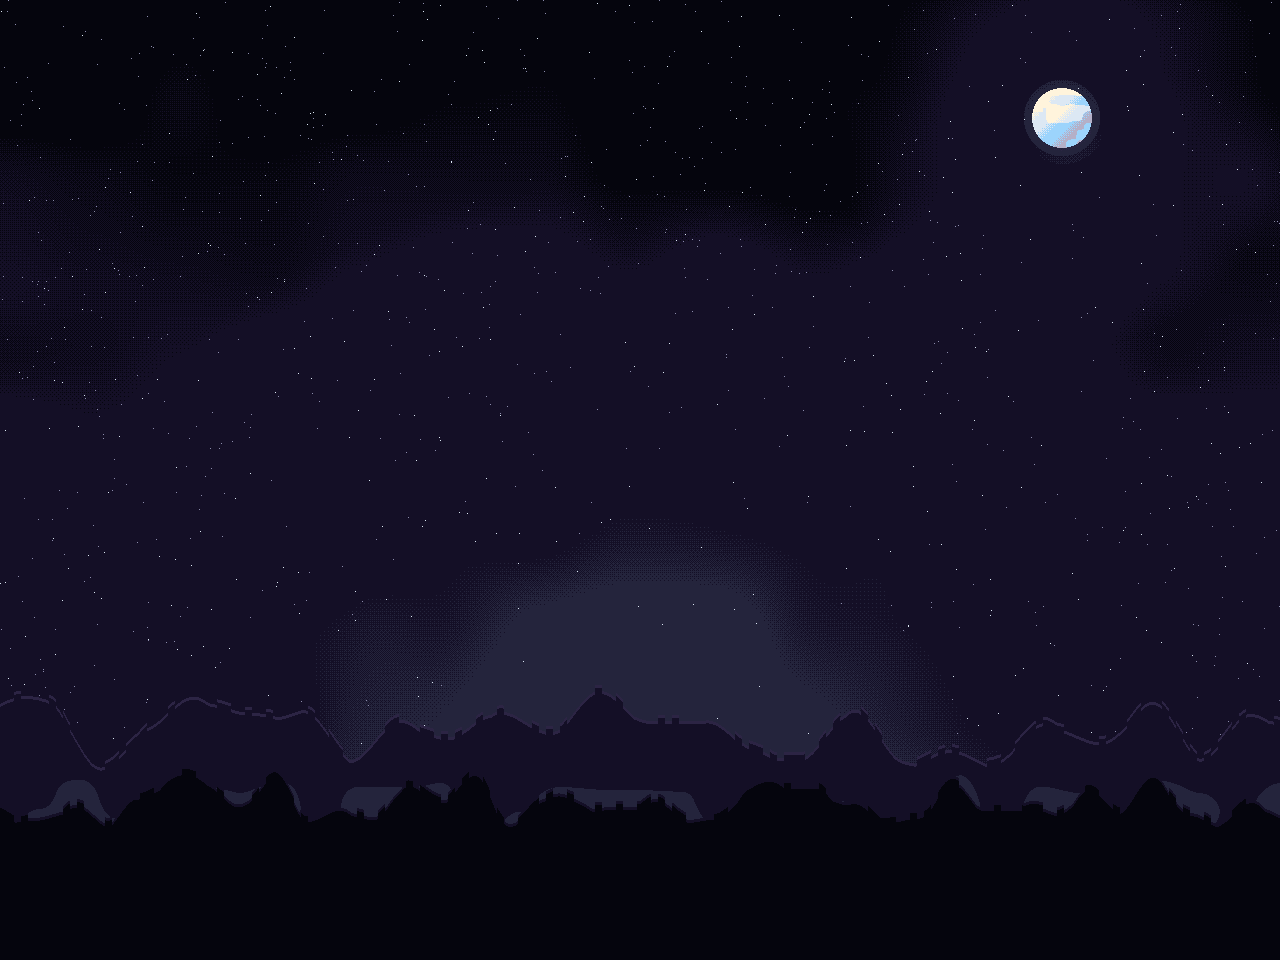
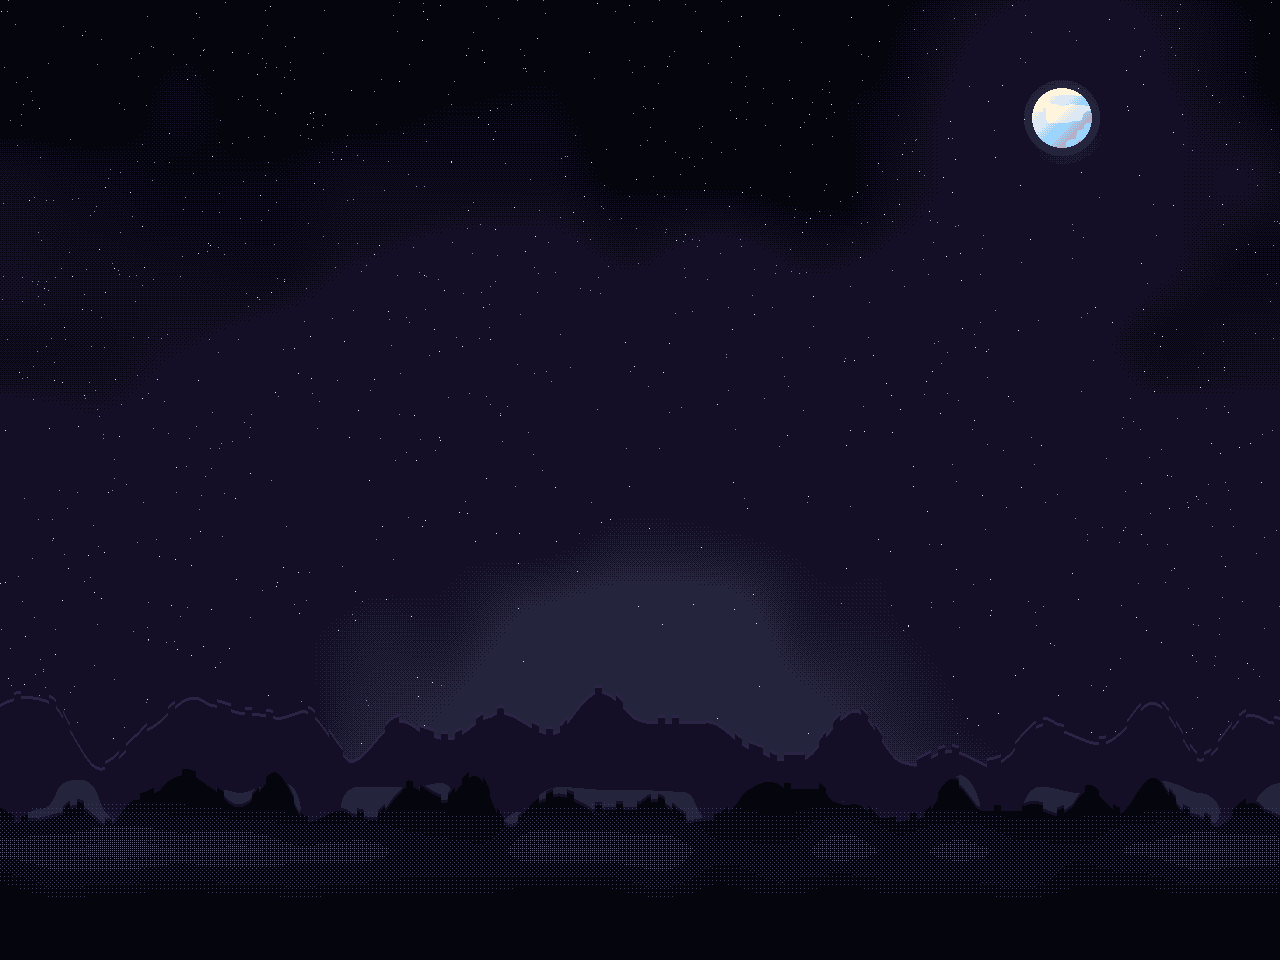
Memory Grove: match the map and title mood (darker canopy, gold crown rim, roots in a mossy mound, swamp mist)
The canopy sits a step darker, with a warm gold rim only on its outer upper-left edge; the long sprawling roots become short flares sinking into a dark mossy mound; opaque dithered swamp mist lies around the roots and between the far trees (opaque, since blended mist snapped to muddy colours). Matches the revised map Heartwood preview.

Changed region(s): [[0.0, 0.8438, 1.0, 0.9062]]

diff --git a/Project_T/tools/meta_art/grove_gen.html b/Project_T/tools/meta_art/grove_gen.html
@@ -600,8 +600,8 @@ function thickPath(L, pts, w0, w1, fn) {
 // ---- the base tree: roots, trunk, three limbs, always visible ----
 function groveTree() {
   const out = new Img(GW, GH), L = new Img(GW, GH), M = new Img(GW, GH);
-  // Earth mound with moss.
-  ellipse(out, 640, 952, 560, 90, (x, y, dx, dy) => pick(["#0c0806", "#140e0a", "#1c140e"], clamp(.6 - dy * .5 + (pnoise(x, y, 9, 3) - .5) * .4, 0, 1), x, y));
+  // A low mossy mound (lit on its upper left) the roots sink into, as on the map Heartwood.
+  ellipse(out, 640, 952, 560, 90, (x, y, dx, dy) => pick([HW.Void, HW.Void, HW.Deepmoss, HW.Moss], clamp(.3 - dy * .45 + (pnoise(x, y, 9, 3) - .5) * .4, 0, 1), x, y));
   for (let k = 0; k < 900; k++) {
     const x = 120 + hash(k, 1, 4) * 1040, y = 880 + hash(k, 2, 4) * 80;
     if (hash(k, 3, 4) < .6) { out.set(x, y, LEAFG[1]); out.set(x, y - 1, LEAFG[2]); if (hash(k, 4, 4) < .4) out.set(x + 1, y - 2, LEAFG[3]); }
@@ -613,10 +613,10 @@ function groveTree() {
     const ridge = Math.abs(((pnoise(x * 3, y, 12, seed) * 7) % 1) - .5) < .1;
     return pick(HB6.slice(1), clamp(.58 - nx * .45 + (ridge ? -.28 : 0) + (pnoise(x, y, 6, seed + 1) - .5) * .12, 0, 1), x, y, .5);
   };
-  const roots = [[[596, 870], [520, 884], [446, 912], [372, 944], [330, 952]], [[684, 870], [760, 884], [834, 912], [908, 944], [950, 952]],
-    [[612, 890], [578, 924], [556, 960]], [[668, 890], [702, 924], [724, 960]], [[590, 856], [512, 852], [440, 868], [388, 890]],
-    [[690, 856], [768, 852], [840, 868], [892, 890]], [[640, 900], [646, 962]]];
-  roots.forEach((r, i) => thickPath(L, catmull(r, 12), [46, 46, 34, 34, 28, 28, 30][i], 8, rootFn(20 + i)));
+  // Short thick flares that bend down into the mound (their ends are hidden under its front lip).
+  const roots = [[[598, 866], [548, 884], [508, 906], [488, 928]], [[682, 866], [732, 884], [772, 906], [792, 928]],
+    [[612, 888], [590, 918], [582, 940]], [[668, 888], [690, 918], [698, 940]], [[640, 898], [642, 944]]];
+  roots.forEach((r, i) => thickPath(L, catmull(r, 12), [48, 48, 36, 36, 30][i], 18, rootFn(20 + i)));
   // Twisted strands: each sample's segments are drawn back to front (by where they are in the
   // twist), and each strand's edge is darkened so the strands read apart.
   // Each strand is a shaded cylinder: dark edges, a lit band toward the key light (top left), and
@@ -683,6 +683,15 @@ function groveTree() {
   sigil(600, 640, "perks", [...ring, [0, 0], [0, -1], [0, 1], [-1, 0], [1, 0]]);
   sigil(641, 596, "families", [[0, -6], [0, -5], [0, -4], [0, -3], [0, -2], [0, -1], [0, 0], [0, 1], [0, 2], [0, 3], [-1, -3], [-2, -4], [1, -1], [2, -2], [-1, 1], [-2, 0], [1, 3], [2, 2]]);
   sigil(684, 640, "cards", [[-3, -5], [-2, -5], [-1, -5], [0, -5], [1, -5], [2, -5], [3, -5], [-3, 5], [-2, 5], [-1, 5], [0, 5], [1, 5], [2, 5], [3, 5], [-3, -4], [-3, -3], [-3, -2], [-3, -1], [-3, 0], [-3, 1], [-3, 2], [-3, 3], [-3, 4], [3, -4], [3, -3], [3, -2], [3, -1], [3, 0], [3, 1], [3, 2], [3, 3], [3, 4], [0, -1], [0, 0], [0, 1], [-1, 0], [1, 0]]);
+  // The mound's front lip over the roots' ends, then swamp mist dithered across the ground.
+  for (let x = 300; x < 980; x++) {
+    const top = 920 + Math.round((pnoise(x, 0, 14, 33) - .5) * 8 + ((x - 640) / 60) ** 2);
+    for (let y = top; y < GH; y++) out.set(x, y, y - top < 2 ? HW.Moss : pick([HW.Deepmoss, HW.Deepmoss, HW.Void], (y - top) / 30, x, y, .3));
+  }
+  for (let y = 850; y < GH; y++) for (let x = 0; x < GW; x++) {
+    const d = (1 - Math.abs(y - 915) / 65) * (1 - Math.abs(x - 640) / 700) * (.55 + pnoise(x, y, 22, 34) * .7);
+    if (d > .15 && bay(x, y) < d * .32) out.set(x, y, d > .55 ? HW.Mist : d > .35 ? HW.Slate : HW.Dusk);  // opaque dither: blending would snap to muddy colours
+  }
   // Pale glowing mushrooms on the roots.
   for (const [x, y, s] of [[470, 896, 1], [486, 900, .7], [812, 894, 1.1], [828, 899, .8], [560, 928, .8], [742, 930, .9], [372, 930, .7]]) {
     ellipse(out, x, y + 3 * s, 1.6 * s, 3 * s, "#c8c0d8");
@@ -781,6 +790,11 @@ function grovesky() {
     if (pnoise(x, y, 40, 66) > .45 + edge * .6) out.set(x, y, CA("#5a5a8a", .16));
   }
   band(830, 50, 34, 65, "#0a0c16", "#141828");
+  // Swamp mist lying low between the far trees (the title screen's mist).
+  for (let y = 790; y < GH; y++) for (let x = 0; x < GW; x++) {
+    const d = (1 - Math.abs(y - 850) / 60) * (.45 + pnoise(x, y, 60, 67) * .8);
+    if (d > .25 && bay(x, y) < d * .22) out.set(x, y, d > .7 ? HW.Slate : HW.Dusk);
+  }
   return out;
 }
 
@@ -814,7 +828,7 @@ const CROWN = (() => {
       const dx = (x - lx) / r, dy = (y - ly) / (r * .85), q = dx * dx + dy * dy;
       if (q <= 1) t = clamp((-dx * .5 - dy * .8 + Math.sqrt(1 - q) * .45 + .25) / 1.3, 0, 1);  // the front lobe wins
     });
-    return t < 0 ? -1 : t * .95 + .42 - (y * s - 150) / 520 * .62 - (x * s - 560) / 1280 * .1;
+    return t < 0 ? -1 : t * .95 + .24 - (y * s - 150) / 520 * .62 - (x * s - 560) / 1280 * .1;
   };
   // Leaf clusters on a jittered grid: [x, y, r, light, rank] (rank orders the stages, centre first).
   const clusters = [], sp = 22 / s;
@@ -870,7 +884,7 @@ function groveCanopy(stage) {
   }
   const small = new Img(W, H); small.stamp(L, P[0]);
   for (let y = 1; y < H - 1; y++) for (let x = 1; x < W - 1; x++)
-    if (L.alpha(x, y) && !L.alpha(x + 1, y - 1) && L.alpha(x - 1, y + 1)) small.set(x, y, HW.Moss);  // moonlit edge
+    if (L.alpha(x, y) && !L.alpha(x - 1, y - 1) && !L.alpha(x - 3, y - 3) && !L.alpha(x - 6, y - 6) && L.alpha(x + 1, y + 1) && y * s < 420 && hash(x, y, 35) < .8) small.set(x, y, HW.Gold);  // only the outer edge, not every gap  // warm rim where the light catches the upper-left edge
   // Scale up 2× into the tree's space.
   const out = new Img(GW, GH);
   for (let y = 0; y < GH; y++) for (let x = 0; x < GW; x++) { const X = x / s | 0, Y = y / s | 0; if (small.alpha(X, Y)) out.set(x, y, small.get(X, Y)); }

diff --git a/Project_T/tools/meta_art/grove_tree.js b/Project_T/tools/meta_art/grove_tree.js
@@ -141,8 +141,8 @@ function thickPath(L, pts, w0, w1, fn) {
 // ---- the base tree: roots, trunk, three limbs, always visible ----
 function groveTree() {
   const out = new Img(GW, GH), L = new Img(GW, GH), M = new Img(GW, GH);
-  // Earth mound with moss.
-  ellipse(out, 640, 952, 560, 90, (x, y, dx, dy) => pick(["#0c0806", "#140e0a", "#1c140e"], clamp(.6 - dy * .5 + (pnoise(x, y, 9, 3) - .5) * .4, 0, 1), x, y));
+  // A low mossy mound (lit on its upper left) the roots sink into, as on the map Heartwood.
+  ellipse(out, 640, 952, 560, 90, (x, y, dx, dy) => pick([HW.Void, HW.Void, HW.Deepmoss, HW.Moss], clamp(.3 - dy * .45 + (pnoise(x, y, 9, 3) - .5) * .4, 0, 1), x, y));
   for (let k = 0; k < 900; k++) {
     const x = 120 + hash(k, 1, 4) * 1040, y = 880 + hash(k, 2, 4) * 80;
     if (hash(k, 3, 4) < .6) { out.set(x, y, LEAFG[1]); out.set(x, y - 1, LEAFG[2]); if (hash(k, 4, 4) < .4) out.set(x + 1, y - 2, LEAFG[3]); }
@@ -154,10 +154,10 @@ function groveTree() {
     const ridge = Math.abs(((pnoise(x * 3, y, 12, seed) * 7) % 1) - .5) < .1;
     return pick(HB6.slice(1), clamp(.58 - nx * .45 + (ridge ? -.28 : 0) + (pnoise(x, y, 6, seed + 1) - .5) * .12, 0, 1), x, y, .5);
   };
-  const roots = [[[596, 870], [520, 884], [446, 912], [372, 944], [330, 952]], [[684, 870], [760, 884], [834, 912], [908, 944], [950, 952]],
-    [[612, 890], [578, 924], [556, 960]], [[668, 890], [702, 924], [724, 960]], [[590, 856], [512, 852], [440, 868], [388, 890]],
-    [[690, 856], [768, 852], [840, 868], [892, 890]], [[640, 900], [646, 962]]];
-  roots.forEach((r, i) => thickPath(L, catmull(r, 12), [46, 46, 34, 34, 28, 28, 30][i], 8, rootFn(20 + i)));
+  // Short thick flares that bend down into the mound (their ends are hidden under its front lip).
+  const roots = [[[598, 866], [548, 884], [508, 906], [488, 928]], [[682, 866], [732, 884], [772, 906], [792, 928]],
+    [[612, 888], [590, 918], [582, 940]], [[668, 888], [690, 918], [698, 940]], [[640, 898], [642, 944]]];
+  roots.forEach((r, i) => thickPath(L, catmull(r, 12), [48, 48, 36, 36, 30][i], 18, rootFn(20 + i)));
   // Twisted strands: each sample's segments are drawn back to front (by where they are in the
   // twist), and each strand's edge is darkened so the strands read apart.
   // Each strand is a shaded cylinder: dark edges, a lit band toward the key light (top left), and
@@ -224,6 +224,15 @@ function groveTree() {
   sigil(600, 640, "perks", [...ring, [0, 0], [0, -1], [0, 1], [-1, 0], [1, 0]]);
   sigil(641, 596, "families", [[0, -6], [0, -5], [0, -4], [0, -3], [0, -2], [0, -1], [0, 0], [0, 1], [0, 2], [0, 3], [-1, -3], [-2, -4], [1, -1], [2, -2], [-1, 1], [-2, 0], [1, 3], [2, 2]]);
   sigil(684, 640, "cards", [[-3, -5], [-2, -5], [-1, -5], [0, -5], [1, -5], [2, -5], [3, -5], [-3, 5], [-2, 5], [-1, 5], [0, 5], [1, 5], [2, 5], [3, 5], [-3, -4], [-3, -3], [-3, -2], [-3, -1], [-3, 0], [-3, 1], [-3, 2], [-3, 3], [-3, 4], [3, -4], [3, -3], [3, -2], [3, -1], [3, 0], [3, 1], [3, 2], [3, 3], [3, 4], [0, -1], [0, 0], [0, 1], [-1, 0], [1, 0]]);
+  // The mound's front lip over the roots' ends, then swamp mist dithered across the ground.
+  for (let x = 300; x < 980; x++) {
+    const top = 920 + Math.round((pnoise(x, 0, 14, 33) - .5) * 8 + ((x - 640) / 60) ** 2);
+    for (let y = top; y < GH; y++) out.set(x, y, y - top < 2 ? HW.Moss : pick([HW.Deepmoss, HW.Deepmoss, HW.Void], (y - top) / 30, x, y, .3));
+  }
+  for (let y = 850; y < GH; y++) for (let x = 0; x < GW; x++) {
+    const d = (1 - Math.abs(y - 915) / 65) * (1 - Math.abs(x - 640) / 700) * (.55 + pnoise(x, y, 22, 34) * .7);
+    if (d > .15 && bay(x, y) < d * .32) out.set(x, y, d > .55 ? HW.Mist : d > .35 ? HW.Slate : HW.Dusk);  // opaque dither: blending would snap to muddy colours
+  }
   // Pale glowing mushrooms on the roots.
   for (const [x, y, s] of [[470, 896, 1], [486, 900, .7], [812, 894, 1.1], [828, 899, .8], [560, 928, .8], [742, 930, .9], [372, 930, .7]]) {
     ellipse(out, x, y + 3 * s, 1.6 * s, 3 * s, "#c8c0d8");
@@ -322,6 +331,11 @@ function grovesky() {
     if (pnoise(x, y, 40, 66) > .45 + edge * .6) out.set(x, y, CA("#5a5a8a", .16));
   }
   band(830, 50, 34, 65, "#0a0c16", "#141828");
+  // Swamp mist lying low between the far trees (the title screen's mist).
+  for (let y = 790; y < GH; y++) for (let x = 0; x < GW; x++) {
+    const d = (1 - Math.abs(y - 850) / 60) * (.45 + pnoise(x, y, 60, 67) * .8);
+    if (d > .25 && bay(x, y) < d * .22) out.set(x, y, d > .7 ? HW.Slate : HW.Dusk);
+  }
   return out;
 }
 
@@ -355,7 +369,7 @@ const CROWN = (() => {
       const dx = (x - lx) / r, dy = (y - ly) / (r * .85), q = dx * dx + dy * dy;
       if (q <= 1) t = clamp((-dx * .5 - dy * .8 + Math.sqrt(1 - q) * .45 + .25) / 1.3, 0, 1);  // the front lobe wins
     });
-    return t < 0 ? -1 : t * .95 + .42 - (y * s - 150) / 520 * .62 - (x * s - 560) / 1280 * .1;
+    return t < 0 ? -1 : t * .95 + .24 - (y * s - 150) / 520 * .62 - (x * s - 560) / 1280 * .1;
   };
   // Leaf clusters on a jittered grid: [x, y, r, light, rank] (rank orders the stages, centre first).
   const clusters = [], sp = 22 / s;
@@ -411,7 +425,7 @@ function groveCanopy(stage) {
   }
   const small = new Img(W, H); small.stamp(L, P[0]);
   for (let y = 1; y < H - 1; y++) for (let x = 1; x < W - 1; x++)
-    if (L.alpha(x, y) && !L.alpha(x + 1, y - 1) && L.alpha(x - 1, y + 1)) small.set(x, y, HW.Moss);  // moonlit edge
+    if (L.alpha(x, y) && !L.alpha(x - 1, y - 1) && !L.alpha(x - 3, y - 3) && !L.alpha(x - 6, y - 6) && L.alpha(x + 1, y + 1) && y * s < 420 && hash(x, y, 35) < .8) small.set(x, y, HW.Gold);  // only the outer edge, not every gap  // warm rim where the light catches the upper-left edge
   // Scale up 2× into the tree's space.
   const out = new Img(GW, GH);
   for (let y = 0; y < GH; y++) for (let x = 0; x < GW; x++) { const X = x / s | 0, Y = y / s | 0; if (small.alpha(X, Y)) out.set(x, y, small.get(X, Y)); }
